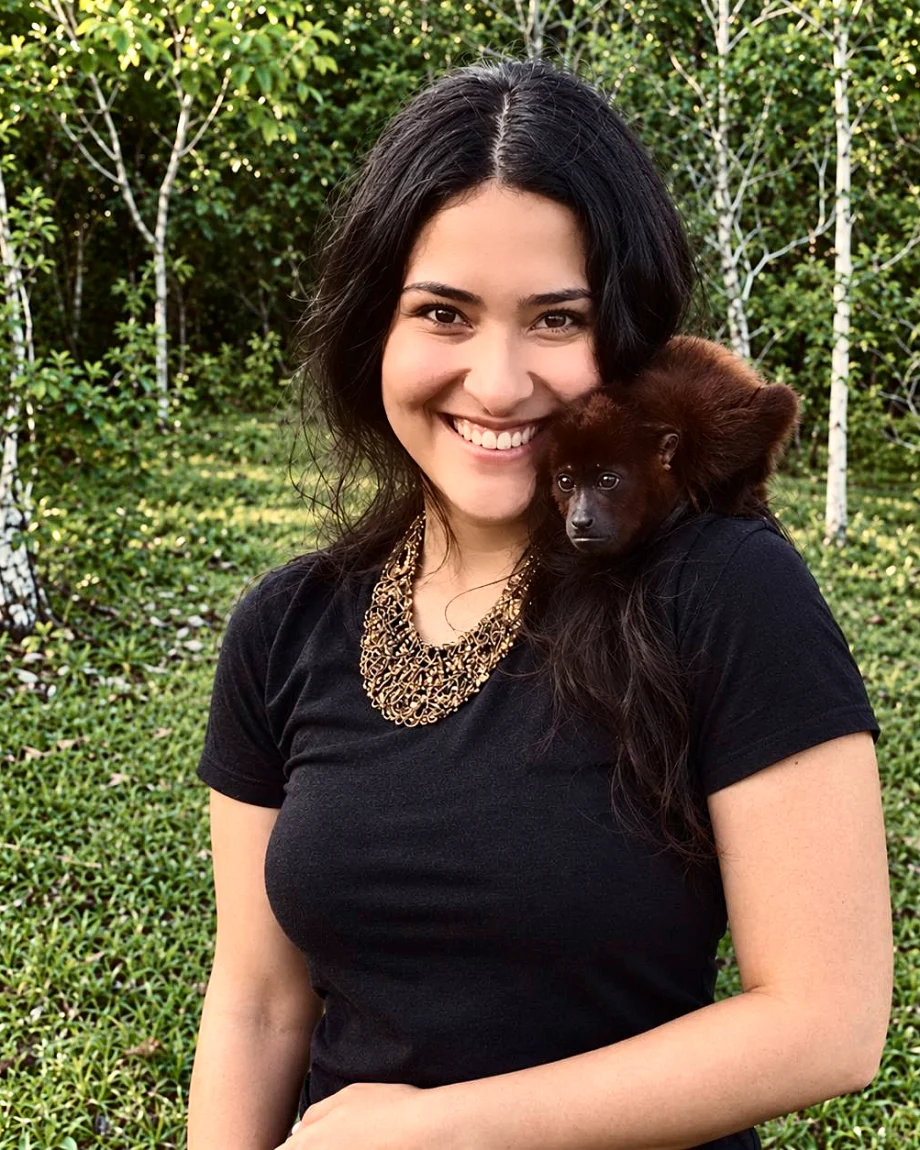
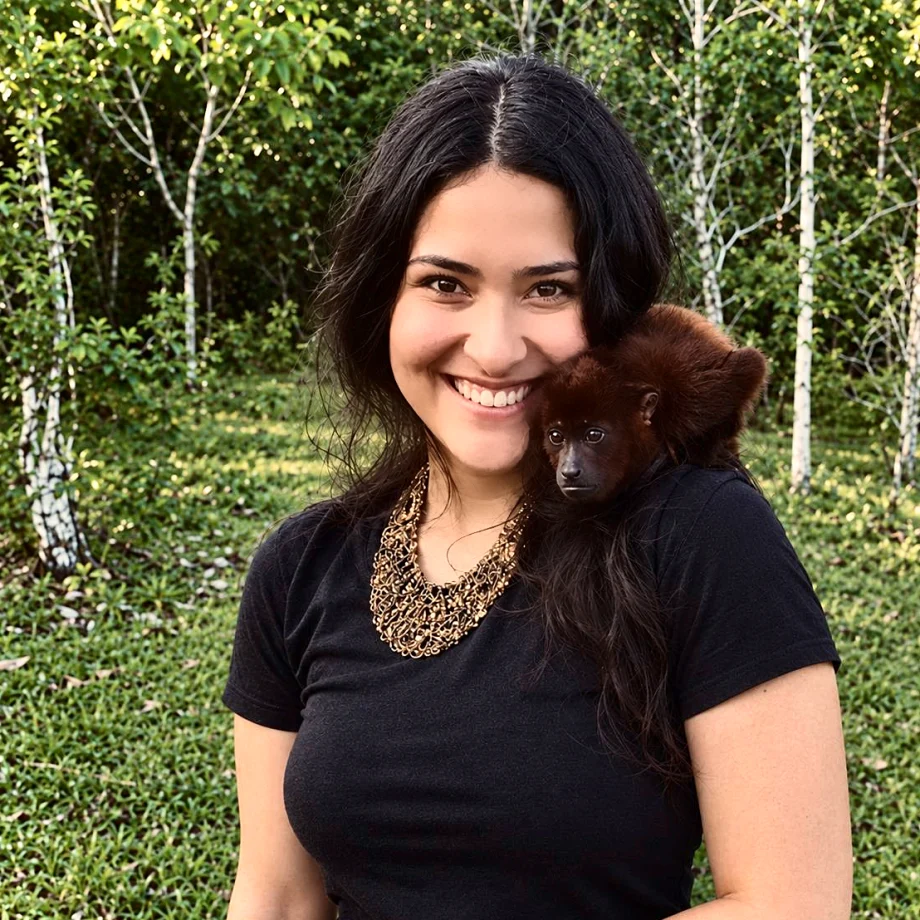
Sobre mí: retrato circular con el anillo iridiscente de la marca
Recorte cuadrado centrado en la cara (antes 4:5) y marco circular con
un anillo giratorio en los colores de la marca alrededor, igual al
degradado que ya se usa en las tarjetas de servicio. Bump de versión
de caché a 20261029a.

Claude-Session: https://claude.ai/code/session_01FtV5TDKAqyDZk5XFcFsNSt

diff --git a/site/index.html b/site/index.html
@@ -24,10 +24,10 @@
 <link rel="preconnect" href="https://fonts.googleapis.com">
 <link rel="preconnect" href="https://fonts.gstatic.com" crossorigin>
 <link rel="stylesheet" href="https://fonts.googleapis.com/css2?family=Outfit:wght@200;300;400;500&amp;display=swap">
-<link rel="stylesheet" href="/assets/styles.css?v=20261028c">
+<link rel="stylesheet" href="/assets/styles.css?v=20261029a">
 <!-- Google Analytics 4 -->
 <script async src="https://www.googletagmanager.com/gtag/js?id=G-D3C7HSLH9T"></script>
-<script src="/assets/main.js?v=20261028c" defer></script>
+<script src="/assets/main.js?v=20261029a" defer></script>
 <!-- Cloudflare Web Analytics (sin cookies, sin datos personales) -->
 <script defer src="https://static.cloudflareinsights.com/beacon.min.js" data-cf-beacon='{"token": "8e3493f7ea244f278128128fefcb5674"}'></script>
 <script type="application/ld+json">
@@ -362,8 +362,9 @@
   <div class="envoltura">
     <div class="sobre__rejilla">
       <figure class="retrato revela">
+        <span class="retrato__anillo" aria-hidden="true"></span>
         <span class="retrato__marco">
-          <img src="/assets/gabriela-920.webp" srcset="/assets/gabriela-560.webp 560w, /assets/gabriela-920.webp 920w" sizes="(max-width: 860px) 62vw, 330px" width="920" height="1150" alt="Gabriela Jiménez en campo" loading="lazy" decoding="async">
+          <img src="/assets/gabriela-920.webp" srcset="/assets/gabriela-560.webp 560w, /assets/gabriela-920.webp 920w" sizes="(max-width: 860px) 62vw, 300px" width="920" height="920" alt="Gabriela Jiménez en campo" loading="lazy" decoding="async">
         </span>
       </figure>
       <div class="sobre__texto revela">

diff --git a/site/assets/styles.css b/site/assets/styles.css
@@ -360,13 +360,20 @@ button { font: inherit; color: inherit; }
 .sobre { background: var(--niebla); }
 .sobre__rejilla { display: grid; grid-template-columns: minmax(0, 330px) minmax(0, 1fr); gap: clamp(28px, 5vw, 70px); align-items: center; }
 
-/* Retrato: marco limpio, sin adornos encima de la foto */
-.retrato { position: relative; margin: 0; }
-.retrato__marco {
-  display: block; overflow: hidden; border-radius: var(--radio-g);
-  box-shadow: 0 22px 48px rgba(10, 40, 28, .16), 0 2px 8px rgba(10, 40, 28, .08);
+/* Retrato: circular, con el anillo iridiscente de la marca alrededor */
+.retrato { position: relative; margin: 0 auto; width: min(100%, 300px); aspect-ratio: 1/1; }
+.retrato__anillo {
+  position: absolute; inset: -12px; border-radius: 50%;
+  background: var(--iris); animation: girar-anillo 16s linear infinite;
 }
-.retrato__marco img { display: block; width: 100%; height: auto; }
+.retrato__marco {
+  position: relative; z-index: 1; display: block; width: 100%; height: 100%; overflow: hidden;
+  border-radius: 50%; border: 7px solid var(--niebla);
+  box-shadow: 0 22px 48px rgba(10, 40, 28, .18), 0 2px 8px rgba(10, 40, 28, .1);
+}
+.retrato__marco img { display: block; width: 100%; height: 100%; object-fit: cover; }
+@keyframes girar-anillo { to { transform: rotate(360deg); } }
+@media (prefers-reduced-motion: reduce) { .retrato__anillo { animation: none; } }
 
 /* Territorios: una fila pareja, alineada, con el rótulo a la misma altura */
 .territorios { margin-top: clamp(44px, 5vw, 72px); }

diff --git a/scripts/editar-retrato.py b/scripts/editar-retrato.py
@@ -1,6 +1,7 @@
 """Preedición del retrato de «Sobre mí».
 Suaviza la textura de la piel sin tocar los rasgos y revela contraste y
-color. El fondo de la foto se respeta: no se desenfoca ni se recorta.
+color. El fondo de la foto se respeta: no se desenfoca. Recorte cuadrado
+centrado en la cara, pensado para un marco circular.
 
 Uso: python3 scripts/editar-retrato.py <foto-original>
 Salida: site/assets/gabriela-920.webp y -560.webp
@@ -188,17 +189,13 @@ def main():
     final = np.clip(img, 0, 255).astype(np.uint8)
     os.makedirs(DESTINO, exist_ok=True)
 
-    # Encuadre vertical 4:5 centrado en la cara, con aire arriba
+    # Encuadre cuadrado centrado en la cara, con aire arriba — para el marco circular
     fx, fy, fw, fh = cara
     cx = fx + fw // 2
-    alto = h
-    ancho = int(alto * 0.8)
-    if ancho > w:
-        ancho = w
-        alto = int(ancho / 0.8)
-    x0 = int(np.clip(cx - ancho // 2, 0, w - ancho))
-    y0 = int(np.clip(fy - fh * 0.75, 0, h - alto))
-    recorte = final[y0:y0 + alto, x0:x0 + ancho]
+    lado = min(h, int(fw * 3.35))
+    x0 = int(np.clip(cx - lado // 2, 0, w - lado))
+    y0 = int(np.clip(fy - fh * 0.55, 0, h - lado))
+    recorte = final[y0:y0 + lado, x0:x0 + lado]
 
     for ancho_sal in ANCHOS:
         esc = ancho_sal / recorte.shape[1]

diff --git a/scripts/construir-pagina.py b/scripts/construir-pagina.py
@@ -15,7 +15,7 @@ AGENDA = "https://calendar.app.google/MA7J7cr6MwokBeuJ8"
 WA = "https://wa.me/573237160686?text="
 CORREO = "gabrielajimenez.consultoria@gmail.com"
 SITIO = "https://gabrielajimenez-consultoria.pages.dev/"
-VER = "20261028c"
+VER = "20261029a"
 
 
 def hoja(x, y, w, rot, capa=2, forma="hoja-palma", deg="g-selva", ar="3/5"):
@@ -382,8 +382,9 @@ def construir():
   <div class="envoltura">
     <div class="sobre__rejilla">
       <figure class="retrato revela">
+        <span class="retrato__anillo" aria-hidden="true"></span>
         <span class="retrato__marco">
-          <img src="/assets/gabriela-920.webp" srcset="/assets/gabriela-560.webp 560w, /assets/gabriela-920.webp 920w" sizes="(max-width: 860px) 62vw, 330px" width="920" height="1150" alt="Gabriela Jiménez en campo" loading="lazy" decoding="async">
+          <img src="/assets/gabriela-920.webp" srcset="/assets/gabriela-560.webp 560w, /assets/gabriela-920.webp 920w" sizes="(max-width: 860px) 62vw, 300px" width="920" height="920" alt="Gabriela Jiménez en campo" loading="lazy" decoding="async">
         </span>
       </figure>
       <div class="sobre__texto revela">
